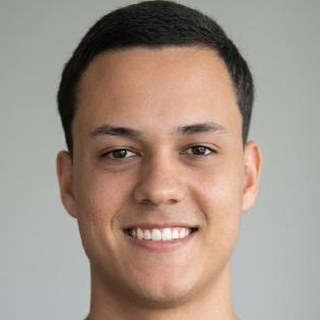
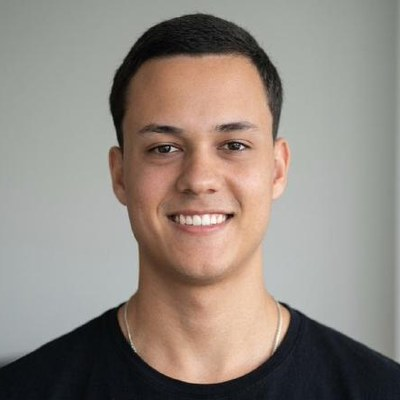
Foto de perfil com enquadramento mais aberto e maior no contato
Claude-Session: https://claude.ai/code/session_01BjNFrjPQCBFUTuqrupMxPB

diff --git a/assets/css/style.css b/assets/css/style.css
@@ -118,7 +118,7 @@ img { display: block; max-width: 100%; }
   font-variation-settings: "wdth" 112;
   letter-spacing: -0.01em;
 }
-.avatar { width: 32px; height: 32px; border-radius: 50%; object-fit: cover; outline: 1px solid var(--line); }
+.avatar { width: 36px; height: 36px; border-radius: 50%; object-fit: cover; outline: 1px solid var(--line); }
 
 .topbar nav { display: flex; gap: 4px; }
 .topbar nav a {
@@ -481,7 +481,7 @@ h3 {
 .band { background: var(--band-bg); color: var(--band-fg); }
 .contact-inner, .foot { max-width: var(--max); margin: 0 auto; padding-left: var(--gutter); padding-right: var(--gutter); }
 .contact-inner { padding-top: clamp(56px, 8vw, 104px); padding-bottom: clamp(48px, 6vw, 80px); }
-.contact-inner img { width: 88px; height: 88px; border-radius: 50%; object-fit: cover; border: 3px solid var(--band-fg); }
+.contact-inner img { width: 128px; height: 128px; border-radius: 50%; object-fit: cover; border: 3px solid var(--band-fg); }
 .contact-inner h2 {
   margin-top: 24px;
   font-size: clamp(40px, 6vw, 72px);

diff --git a/index.html b/index.html
@@ -25,7 +25,7 @@
 
   <header class="topbar">
     <a class="brand" href="#inicio" aria-label="Gustavo Cardoso, início">
-      <img class="avatar" src="images/perfil.jpg" alt="" width="32" height="32">
+      <img class="avatar" src="images/perfil.jpg" alt="" width="36" height="36">
       <span>Gustavo Cardoso</span>
     </a>
     <nav aria-label="Seções">
@@ -262,7 +262,7 @@
 
   <div class="band">
     <section class="contact-inner" id="contato" aria-labelledby="contato-h">
-      <img src="images/perfil.jpg" alt="Foto de Gustavo Cardoso" width="88" height="88">
+      <img src="images/perfil.jpg" alt="Foto de Gustavo Cardoso" width="128" height="128">
       <h2 id="contato-h">Vamos conversar</h2>
       <p>Procuro uma vaga em desenvolvimento, análise de sistemas ou suporte a sistemas. Moro em Salto de Pirapora, SP, e topo trabalho remoto ou híbrido na região.</p>
       <a class="mail" href="mailto:guhh.cardoso1@gmail.com">guhh.cardoso1@gmail.com</a>
